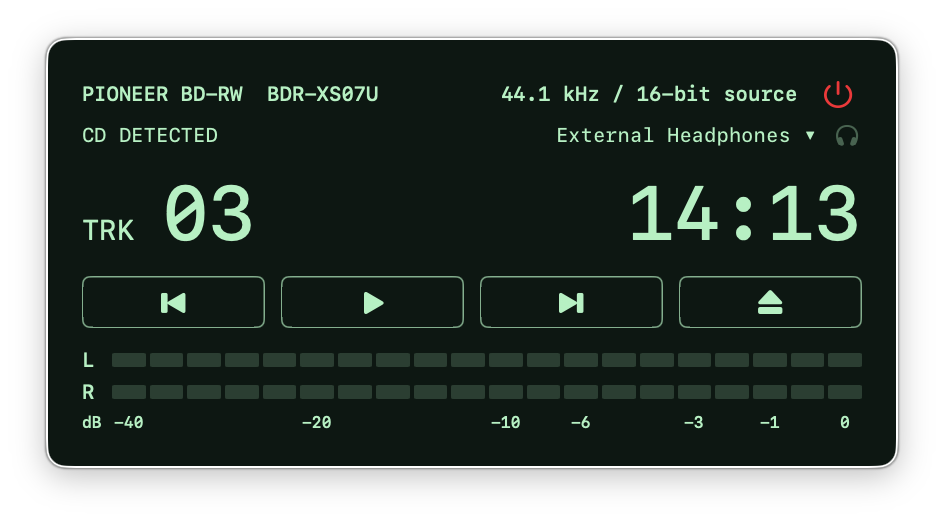
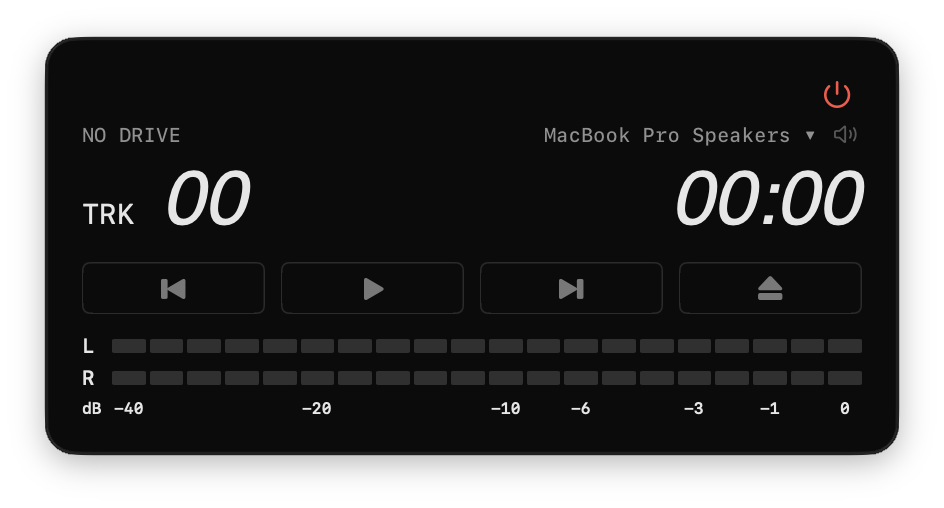
Update the README screenshot for Liquid Glass
Replace the 1.3.5 dark green panel with a window capture of the glass panel in Dark appearance, with the meters shown, and record how it was taken.

diff --git a/README.md b/README.md
@@ -15,11 +15,11 @@ a track and time display, the slowest read speed the drive accepts, and error
 concealment instead of noisy re-reads.
 
 <img src="docs/images/audio-levels.png" width="472"
-  alt="CD Player ready to play a three-track disc with audio levels shown">
+  alt="CD Player's Liquid Glass panel in Dark appearance with audio levels shown">
 
-*Version 1.3.5 ready to play a three-track CD, with audio levels shown. The
-meters stay dark while stopped. Later versions replace this dark green panel
-with Liquid Glass.*
+*The Liquid Glass panel in Dark appearance, with audio levels shown. No drive
+is attached, so the display reads NO DRIVE. The meters stay dark while
+stopped.*
 
 **Status:** [version 1.3.5 is released](https://github.com/ylau674/CD-player/releases/tag/v1.3.5).
 M6.1–M6.5, M8 and M9 are complete and hardware-checked on one
@@ -37,8 +37,8 @@ colours and no border. View › Appearance offers Follow System (the default),
 Light and Dark, remembered across launches. The choice affects only the player
 window, not macOS. View › Background Transparency independently sets how
 strongly the glass is tinted toward the window background. The dark green panel
-in the screenshot above is removed, so the app now requires macOS 26 Tahoe.
-Playback is unchanged.
+of version 1.3.5 and earlier is removed, so the app now requires macOS 26
+Tahoe. Playback is unchanged.
 
 The panel starts at 15% transparency on a new installation (existing saved
 settings are preserved). The slider goes from solid to 90%, and the level is

diff --git a/docs/DEVELOPMENT_LOG.md b/docs/DEVELOPMENT_LOG.md
@@ -6350,3 +6350,23 @@ systems and for Intel Macs.
   which the owner takes.
 
 No playback, installation or hardware check was performed.
+
+### README screenshot
+
+With the owner's approval, the rebuilt Debug app was launched without Play.
+The owner set View › Appearance › Dark, showed the meters with ⌘L and moved
+the window to the built-in Retina display. No drive was attached, so the
+display reads `NO DRIVE`. AppleScript could not change the setting or move
+the window, because `osascript` has no Accessibility access.
+
+A helper using `CGWindowListCopyWindowInfo` found the window number.
+`screencapture -l` then captured the window alone at 944 × 508 px, with its
+shadow and transparent corners, like the earlier image. A window-only capture
+omits the desktop behind the glass, so the panel appears as flat near-black
+glass. A capture of the screen region instead showed the real glass over the
+dark navy desktop, in a rectangular image with almost no visible shadow. The
+owner chose the window-only capture.
+
+It replaces `docs/images/audio-levels.png`, still shown at 472 points, and the
+README caption describes it. No disc was read, and nothing was played or
+installed.
